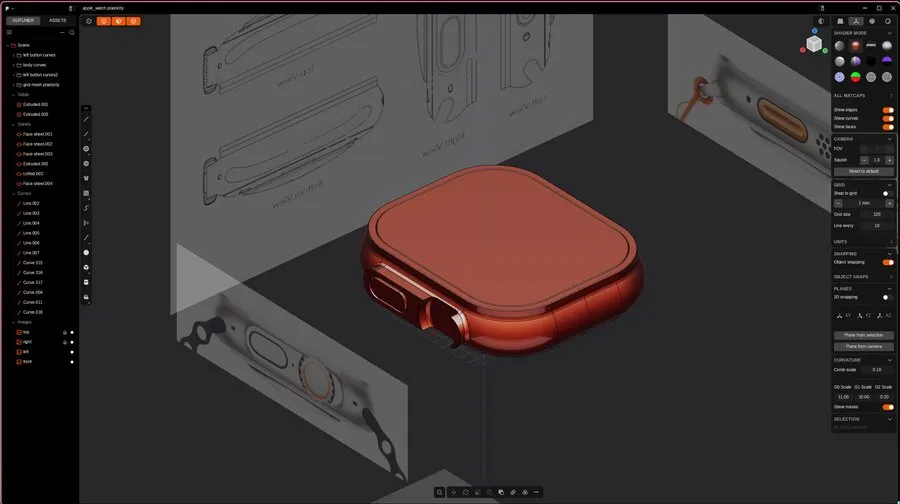
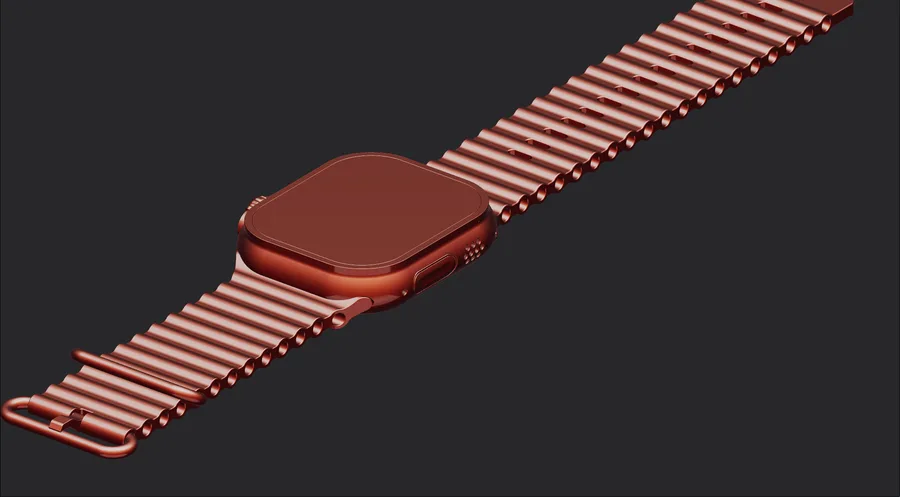
Landing page: link writing/songmap/cstheskin, add motorcycle study, refresh CAD renders; newest-first writing order

diff --git a/index.html b/index.html
@@ -268,6 +268,18 @@
     line-height: 1.3;
   }
 
+  .portfolio-caption .title a {
+    color: inherit;
+    text-decoration: none;
+    border-bottom: 1px solid rgba(201, 168, 76, 0.55);
+    transition: color 0.2s ease, border-color 0.2s ease;
+  }
+
+  .portfolio-caption .title a:hover {
+    color: var(--gold);
+    border-color: var(--gold);
+  }
+
   .portfolio-caption .desc {
     font-size: 0.78rem;
     color: #9a8e82;
@@ -412,6 +424,7 @@
       <a href="mailto:[email redacted]">[email redacted]</a><br>
       <a href="https://github.com/rupel190">github.com/rupel190</a><br>
       <a href="https://www.linkedin.com/in/christoph-rippel-964508171/">linkedin</a><br>
+      <a href="/writing/">writing</a><br>
       April 2026
     </div>
   </header>
@@ -462,19 +475,35 @@
         <img src="assets/guess-the-cs-skin.webp" alt="Guess the CS Skin" loading="lazy" decoding="async" width="900" height="566">
         <div class="portfolio-caption">
           <span class="cat">Web / Game</span>
-          <span class="title">Guess the CS Skin</span>
-          <span class="desc">Like GuessTheGame, but for CS2 weapon skins. Live at guess-the-skin-game.rupel190.workers.dev. Cloudflare Workers. 2025.</span>
+          <span class="title"><a href="https://guess-the-cs2-skin.rupel.xyz" target="_blank" rel="noopener noreferrer">Guess the CS Skin</a></span>
+          <span class="desc">Like GuessTheGame, but for CS2 weapon skins. Live at guess-the-cs2-skin.rupel.xyz. Cloudflare Workers. 2025.</span>
+        </div>
+      </div>
+      <div class="portfolio-item">
+        <img src="assets/songmap.webp" alt="Songmap — song structure &amp; arrangement analyzer" loading="lazy" decoding="async" width="900" height="977">
+        <div class="portfolio-caption">
+          <span class="cat">Web / Music Tech</span>
+          <span class="title"><a href="https://songmap.rupel.xyz" target="_blank" rel="noopener noreferrer">Songmap</a></span>
+          <span class="desc">Client-side song structure &amp; arrangement analyzer. Svelte 5 + Vite. Live at songmap.rupel.xyz. Cloudflare Pages. 2025.</span>
         </div>
       </div>
     </div>
     <div class="section-sub">3D Modeling & Product Design</div>
     <div class="portfolio-grid">
       <div class="portfolio-item">
-        <img src="assets/apple-watch-surface-modeling-study.webp" alt="Apple Watch — Surface Modeling Study" loading="lazy" decoding="async" width="900" height="504">
+        <img src="assets/apple-watch-surface-modeling-study.webp" alt="Apple Watch — Surface Modeling Study" loading="lazy" decoding="async" width="900" height="497">
         <div class="portfolio-caption">
           <span class="cat">CAD / Plasticity</span>
           <span class="title">Apple Watch — Surface Modeling Study</span>
           <span class="desc">Learning exercise in Plasticity. Complex curved surfaces, buttons, crown detail. In progress.</span>
+        </div>
+      </div>
+      <div class="portfolio-item">
+        <img src="assets/motorcycle-surface-modeling-study.webp" alt="Motorcycle — Surface Modeling Study" loading="lazy" decoding="async" width="900" height="580">
+        <div class="portfolio-caption">
+          <span class="cat">CAD / Plasticity</span>
+          <span class="title">Motorcycle — Surface Modeling Study</span>
+          <span class="desc">Learning exercise in Plasticity, same tutorial series as the Apple Watch. Hard-surface fairings, tank, spoked wheels, drilled brake discs. In progress.</span>
         </div>
       </div>
       <div class="portfolio-item">
@@ -486,7 +515,7 @@
         </div>
       </div>
       <div class="portfolio-item">
-        <img src="assets/dog-ball-thrower.webp" alt="Dog Ball Thrower" loading="lazy" decoding="async" width="900" height="611">
+        <img src="assets/dog-ball-thrower.webp" alt="Dog Ball Thrower" loading="lazy" decoding="async" width="900" height="576">
         <div class="portfolio-caption">
           <span class="cat">CAD / Plasticity</span>
           <span class="title">Dog Ball Thrower</span>

diff --git a/writing/index.html b/writing/index.html
@@ -29,18 +29,18 @@
   </header>
   <ul class="entries">
     <li class="entry">
-      <a class="entry-link" href="/writing/disco-elysium">
-        <span class="entry-title">Disco Elysium</span>
-        <time class="entry-date" datetime="2026-06-24">Jun 24, 2026</time>
-      </a>
-      <p class="entry-desc">Learnings throughout 5 years</p>
-    </li>
-    <li class="entry">
       <a class="entry-link" href="/writing/graduating-roles">
         <span class="entry-title">Are you graduating out of your old role?</span>
         <time class="entry-date" datetime="2026-06-25">Jun 25, 2026</time>
       </a>
       <p class="entry-desc">Are you moving up the abstraction stack?</p>
+    </li>
+    <li class="entry">
+      <a class="entry-link" href="/writing/disco-elysium">
+        <span class="entry-title">Disco Elysium</span>
+        <time class="entry-date" datetime="2026-06-24">Jun 24, 2026</time>
+      </a>
+      <p class="entry-desc">Learnings throughout 5 years</p>
     </li>
   </ul>
 </div>

diff --git a/build.ts b/build.ts
@@ -58,7 +58,10 @@ const loaded = readdirSync(SRC)
     return { slug: (data.slug as string) || basename(f, ".md"), data, content };
   })
   .filter((p) => !p.data.draft)
-  .sort((a, b) => String(b.data.date ?? b.data.created).localeCompare(String(a.data.date ?? a.data.created)));
+  // Sort newest-first on a normalized ISO key. NB: js-yaml parses unquoted `date:`/`created:`
+  // into Date objects, and String(Date) is "Wed Jun 24 2026 …" — which localeCompare would sort
+  // by weekday name, not chronologically. toISODate() collapses both to "YYYY-MM-DD" first.
+  .sort((a, b) => toISODate(b.data.date ?? b.data.created).localeCompare(toISODate(a.data.date ?? a.data.created)));
 
 // --- [[wikilinks]] → links to published posts, else plain text ---
 const lookup = new Map<string, string>();